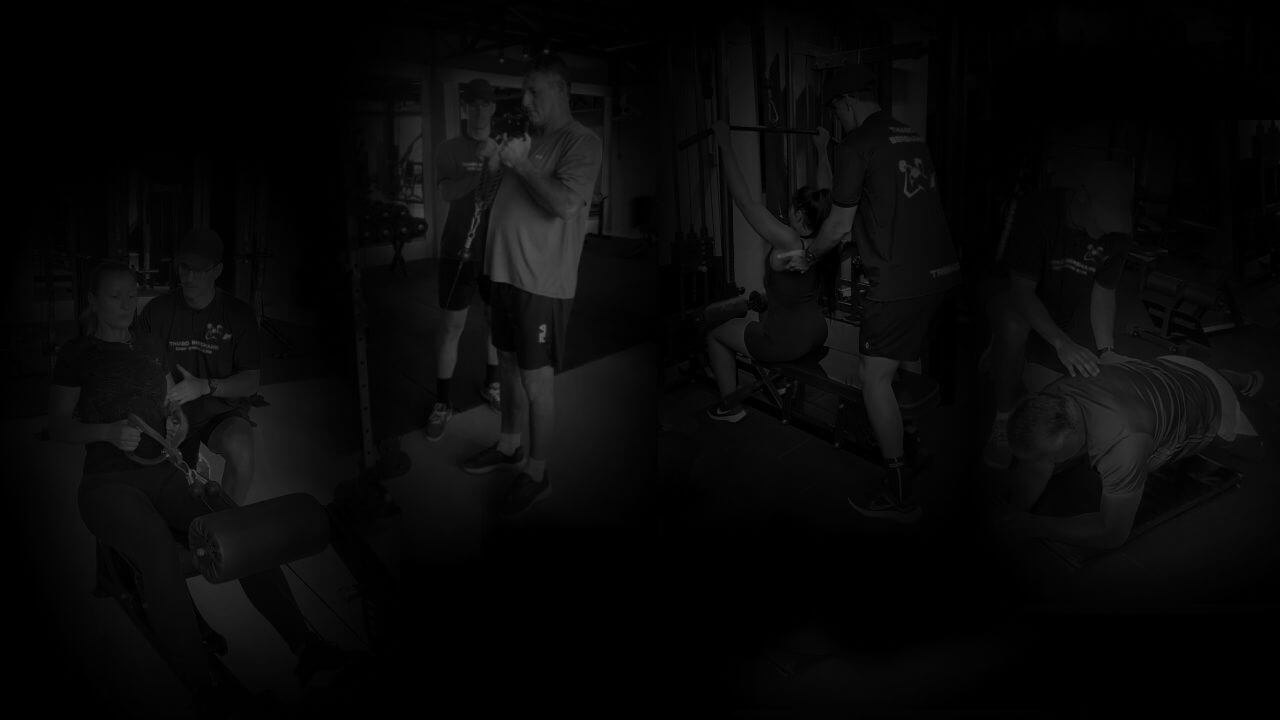
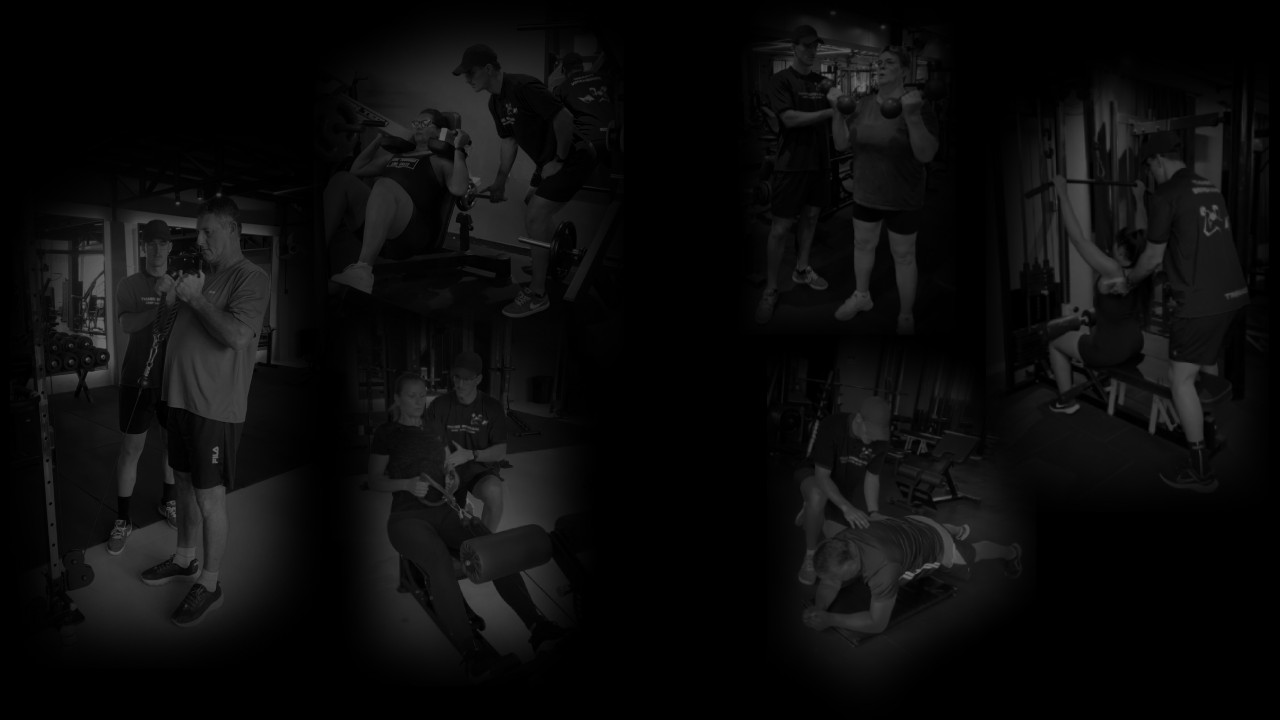
Add files via upload

diff --git a/app/components/ServicesSection.tsx b/app/components/ServicesSection.tsx
@@ -11,6 +11,18 @@ export const ServicesSection = ({ onCardClick }: ServicesSectionProps) => {
   const ref = useRef(null);
   const isInView = useInView(ref, { once: true, amount: 0.1 });
 
+  const handleCardClick = (type: 'presencial' | 'online') => {
+    onCardClick(type);
+    
+    // Rolar suavemente até o início da seção correspondente
+    setTimeout(() => {
+      const element = document.getElementById(`${type}-section`);
+      if (element) {
+        element.scrollIntoView({ behavior: 'smooth', block: 'start' });
+      }
+    }, 100);
+  };
+
   return (
     <section ref={ref} className="bg-neutral-900 py-16 md:py-24">
       <div className="max-w-7xl mx-auto px-4 md:px-6">
@@ -27,90 +39,90 @@ export const ServicesSection = ({ onCardClick }: ServicesSectionProps) => {
         
         <div className="grid grid-cols-1 lg:grid-cols-2 gap-6 md:gap-8">
           {/* Presencial Card */}
-<motion.div
-  initial={{ opacity: 0, x: -30 }}
-  animate={isInView ? { opacity: 1, x: 0 } : { opacity: 0, x: -30 }}
-  transition={{ duration: 0.6 }}
-  whileHover={{ y: -5 }}
-  className="group"
->
-  <div className="relative bg-neutral-800 p-6 md:p-8 lg:p-10">
-    <div className="absolute top-0 left-0 w-8 md:w-12 h-px bg-red-700/30 group-hover:w-12 md:group-hover:w-24 transition-all duration-500" />
-    
-    <div className="mt-6 md:mt-8">
-      <div className="w-6 md:w-8 h-px bg-red-700/30 mb-6 md:mb-8" />
-      <h3 className="text-xl md:text-2xl font-light text-white mb-6 md:mb-8 tracking-wide">TREINAMENTO PRESENCIAL</h3>
-      
-      <div className="mb-6 md:mb-8">
-        <p className="text-red-600 text-lg md:text-xs tracking-wider mb-3 md:mb-4">IDEAL PARA QUEM:</p>
-        <ul className="space-y-5 md:space-y-3">
-          <li className="flex items-start gap-2 md:gap-3 text-gray-400 text-lg md:text-sm">
-            <span className="text-red-700 flex-shrink-0">—</span>
-            <span>Busca <span className="text-gray-300">evolução acelerada e correção profissional</span> a cada repetição</span>
-          </li>
-          <li className="flex items-start gap-2 md:gap-3 text-gray-400 text-lg md:text-sm">
-            <span className="text-red-700 flex-shrink-0">—</span>
-            <span>Possui <span className="text-gray-300">alguma lesão ou especificidade</span> (ombro, joelho, coluna) e quer a <span className="text-gray-300">segurança de treinar sem dor</span></span>
-          </li>
-          <li className="flex items-start gap-2 md:gap-3 text-gray-400 text-lg md:text-sm">
-            <span className="text-red-700 flex-shrink-0">—</span>
-            <span>Tem <span className="text-gray-300">dificuldade de manter a constância</span> na academia e precisa de um <span className="text-gray-300">acompanhamento que cobre e motive</span> de verdade</span>
-          </li>
-        </ul>
-      </div>
-      
-      <button
-        onClick={() => onCardClick('presencial')}
-        className="w-full group/btn relative bg-red-700/70 border border-white hover:border-red-700/50 px-4 md:px-6 py-4 md:py-3 text-white text-md md:text-sm tracking-wide transition-all duration-300"
-      >
-        Quero Treinar Presencialmente
-      </button>
-    </div>
-  </div>
-</motion.div>
+          <motion.div
+            initial={{ opacity: 0, x: -30 }}
+            animate={isInView ? { opacity: 1, x: 0 } : { opacity: 0, x: -30 }}
+            transition={{ duration: 0.6 }}
+            whileHover={{ y: -5 }}
+            className="group h-full"
+          >
+            <div className="relative bg-neutral-800 p-6 md:p-8 lg:p-10 h-full flex flex-col">
+              <div className="absolute top-0 left-0 w-8 md:w-12 h-px bg-red-700/30 group-hover:w-12 md:group-hover:w-24 transition-all duration-500" />
+              
+              <div className="mt-6 md:mt-8 flex flex-col h-full">
+                <div className="w-6 md:w-8 h-px bg-red-700/30 mb-6 md:mb-8" />
+                <h3 className="text-xl md:text-2xl font-light text-white mb-6 md:mb-8 tracking-wide">TREINAMENTO PRESENCIAL</h3>
+                
+                <div className="mb-6 md:mb-8 flex-grow">
+                  <p className="text-red-600 text-lg md:text-xs tracking-wider mb-3 md:mb-4">IDEAL PARA QUEM:</p>
+                  <ul className="space-y-5 md:space-y-3">
+                    <li className="flex items-start gap-2 md:gap-3 text-gray-400 text-lg md:text-sm">
+                      <span className="text-red-700 flex-shrink-0">—</span>
+                      <span>Busca <span className="text-gray-300">evolução acelerada e correção profissional</span> a cada repetição</span>
+                    </li>
+                    <li className="flex items-start gap-2 md:gap-3 text-gray-400 text-lg md:text-sm">
+                      <span className="text-red-700 flex-shrink-0">—</span>
+                      <span>Possui <span className="text-gray-300">alguma lesão ou especificidade</span> (ombro, joelho, coluna) e quer a <span className="text-gray-300">segurança de treinar sem dor</span></span>
+                    </li>
+                    <li className="flex items-start gap-2 md:gap-3 text-gray-400 text-lg md:text-sm">
+                      <span className="text-red-700 flex-shrink-0">—</span>
+                      <span>Tem <span className="text-gray-300">dificuldade de manter a constância</span> na academia e precisa de um <span className="text-gray-300">acompanhamento que cobre e motive</span> de verdade</span>
+                    </li>
+                  </ul>
+                </div>
+                
+                <button
+                  onClick={() => handleCardClick('presencial')}
+                  className="w-full group/btn relative bg-red-700/70 border border-white hover:border-red-700/50 px-4 md:px-6 py-4 md:py-3 text-white text-md md:text-sm tracking-wide transition-all duration-300 mt-auto"
+                >
+                  Quero Treinar Presencialmente
+                </button>
+              </div>
+            </div>
+          </motion.div>
 
           {/* Online Card */}
-<motion.div
-  initial={{ opacity: 0, x: 30 }}
-  animate={isInView ? { opacity: 1, x: 0 } : { opacity: 0, x: 30 }}
-  transition={{ duration: 0.6, delay: 0.2 }}
-  whileHover={{ y: -5 }}
-  className="group"
->
-  <div className="relative bg-neutral-800 p-6 md:p-8 lg:p-10">
-    <div className="absolute top-0 left-0 w-8 md:w-12 h-px bg-red-700/30 group-hover:w-12 md:group-hover:w-24 transition-all duration-500" />
-    
-    <div className="mt-6 md:mt-8">
-      <div className="w-6 md:w-8 h-px bg-red-700/30 mb-6 md:mb-8" />
-      <h3 className="text-xl md:text-2xl font-light text-white mb-6 md:mb-8 tracking-wide">CONSULTORIA ONLINE  + BÔNUS PRESENCIAIS</h3>
-      
-      <div className="mb-6 md:mb-8">
-        <p className="text-red-600 text-lg md:text-xs tracking-wider mb-3 md:mb-4">IDEAL PARA QUEM:</p>
-        <ul className="space-y-5 md:space-y-3">
-          <li className="flex items-start gap-2 md:gap-3 text-gray-400 text-lg md:text-sm">
-            <span className="text-red-700 flex-shrink-0">—</span>
-            <span>Quer <span className="text-gray-300">direcionamento profissional</span> para <span className="text-gray-300">maximizar resultados</span> e <span className="text-gray-300">parar de perder tempo andando sem direção</span> na academia</span>
-          </li>
-          <li className="flex items-start gap-2 md:gap-3 text-gray-400 text-lg md:text-sm">
-            <span className="text-red-700 flex-shrink-0">—</span>
-            <span>Já tem <span className="text-gray-300">familiaridade com a academia</span> mas sente que <span className="text-gray-300">estagnou</span> – quer evoluir mais mesmo treinando sozinho</span>
-          </li>
-          <li className="flex items-start gap-2 md:gap-3 text-gray-400 text-lg md:text-sm">
-            <span className="text-red-700 flex-shrink-0">—</span>
-            <span>Não quer depender de <span className="text-gray-300">treinos genéricos</span> e busca o <span className="text-gray-300">caminho mais curto e certeiro</span> que só a <span className="text-gray-300">ciência</span> proporciona</span>
-          </li>
-        </ul>
-      </div>
-      
-      <button
-        onClick={() => onCardClick('online')}
-        className="w-full group/btn relative bg-red-700/70 border border-white hover:border-red-700/50 px-4 md:px-6 py-4 md:py-3 text-white text-md md:text-sm tracking-wide transition-all duration-300"
-      >
-        Consultoria Online
-      </button>
-    </div>
-  </div>
-</motion.div>
+          <motion.div
+            initial={{ opacity: 0, x: 30 }}
+            animate={isInView ? { opacity: 1, x: 0 } : { opacity: 0, x: 30 }}
+            transition={{ duration: 0.6, delay: 0.2 }}
+            whileHover={{ y: -5 }}
+            className="group h-full"
+          >
+            <div className="relative bg-neutral-800 p-6 md:p-8 lg:p-10 h-full flex flex-col">
+              <div className="absolute top-0 left-0 w-8 md:w-12 h-px bg-red-700/30 group-hover:w-12 md:group-hover:w-24 transition-all duration-500" />
+              
+              <div className="mt-6 md:mt-8 flex flex-col h-full">
+                <div className="w-6 md:w-8 h-px bg-red-700/30 mb-6 md:mb-8" />
+                <h3 className="text-xl md:text-2xl font-light text-white mb-6 md:mb-8 tracking-wide">CONSULTORIA ONLINE  + BÔNUS PRESENCIAIS</h3>
+                
+                <div className="mb-6 md:mb-8 flex-grow">
+                  <p className="text-red-600 text-lg md:text-xs tracking-wider mb-3 md:mb-4">IDEAL PARA QUEM:</p>
+                  <ul className="space-y-5 md:space-y-3">
+                    <li className="flex items-start gap-2 md:gap-3 text-gray-400 text-lg md:text-sm">
+                      <span className="text-red-700 flex-shrink-0">—</span>
+                      <span>Quer <span className="text-gray-300">direcionamento profissional</span> para <span className="text-gray-300">maximizar resultados</span> e <span className="text-gray-300">parar de perder tempo andando sem direção</span> na academia</span>
+                    </li>
+                    <li className="flex items-start gap-2 md:gap-3 text-gray-400 text-lg md:text-sm">
+                      <span className="text-red-700 flex-shrink-0">—</span>
+                      <span>Já tem <span className="text-gray-300">familiaridade com a academia</span> mas sente que <span className="text-gray-300">estagnou</span> – quer evoluir mais mesmo treinando sozinho</span>
+                    </li>
+                    <li className="flex items-start gap-2 md:gap-3 text-gray-400 text-lg md:text-sm">
+                      <span className="text-red-700 flex-shrink-0">—</span>
+                      <span>Não quer depender de <span className="text-gray-300">treinos genéricos</span> e busca o <span className="text-gray-300">caminho mais curto e certeiro</span> que só a <span className="text-gray-300">ciência</span> proporciona</span>
+                    </li>
+                  </ul>
+                </div>
+                
+                <button
+                  onClick={() => handleCardClick('online')}
+                  className="w-full group/btn relative bg-red-700/70 border border-white hover:border-red-700/50 px-4 md:px-6 py-4 md:py-3 text-white text-md md:text-sm tracking-wide transition-all duration-300 mt-auto"
+                >
+                  Consultoria Online
+                </button>
+              </div>
+            </div>
+          </motion.div>
         </div>
       </div>
     </section>

diff --git a/app/components/OnlineDetails.tsx b/app/components/OnlineDetails.tsx
@@ -131,16 +131,10 @@ export const OnlineDetails = ({ onBack }: OnlineDetailsProps) => {
             </div>
           </div>
 
-          {/* Tempo mínimo - card estilo "Onde atendo" do Presencial */}
-          <div>
-            <h2 className="text-2xl font-light text-white mb-6">Tempo mínimo</h2>
-            <div className="bg-neutral-800 p-6">
-              <p className="text-white text-center text-lg">2 meses <span className="text-gray-400">(período mínimo para evolução real)</span></p>
-            </div>
-          </div>
+          
 
           {/* Investimento e CTA - IDÊNTICO ao Presencial */}
-          <div className="bg-neutral-800 p-8">
+          <div className="bg-neutral-800 p-8 flex justify-center flex-col w-full">
             <p className="text-gray-400 text-lg mb-4 text-center">
               <span className="text-gray-300">Investimento (a partir de 2 meses)</span>
             </p>
@@ -148,7 +142,7 @@ export const OnlineDetails = ({ onBack }: OnlineDetailsProps) => {
               href={whatsappLink}
               target="_blank"
               rel="noopener noreferrer"
-              className="inline-block w-full md:w-auto px-8 py-3 bg-red-700 hover:bg-red-800 text-white text-center text-lg tracking-wide transition-colors"
+              className="inline-block px-8 mx-0 md:mx-72 py-3 bg-red-700 hover:bg-red-800 text-white text-center text-lg tracking-wide transition-colors"
             >
               QUERO MINHA CONSULTORIA ONLINE (COM BÔNUS)
             </a>

diff --git a/app/components/PresencialDetails.tsx b/app/components/PresencialDetails.tsx
@@ -182,7 +182,7 @@ export const PresencialDetails = ({ onBack }: PresencialDetailsProps) => {
             </div>
           </div>
 
-          <div className="bg-neutral-800 p-8">
+          <div className="bg-neutral-800 p-8 justify-center flex-col w-full">
             <p className="text-gray-400 text-lg mb-4 text-center">
               <span className="text-gray-300 ">Vagas presenciais limitadas por horário.</span> Avaliação gratuita exclusiva para alunos presenciais.
             </p>
@@ -190,7 +190,7 @@ export const PresencialDetails = ({ onBack }: PresencialDetailsProps) => {
               href={whatsappLink}
               target="_blank"
               rel="noopener noreferrer"
-              className="inline-block px-8 py-3 bg-red-700 hover:bg-red-800 text-white text-center text-lg tracking-wide transition-colors"
+              className="inline-block px-8 py-3 mx-0 md:mx-72 bg-red-700 hover:bg-red-800 text-white text-center text-lg tracking-wide transition-colors"
             >
               QUERO AGENDAR MINHA AULA EXPERIMENTAL
             </a>
